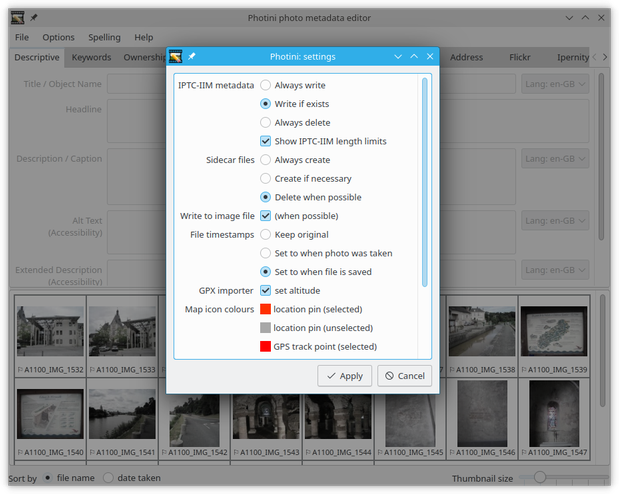
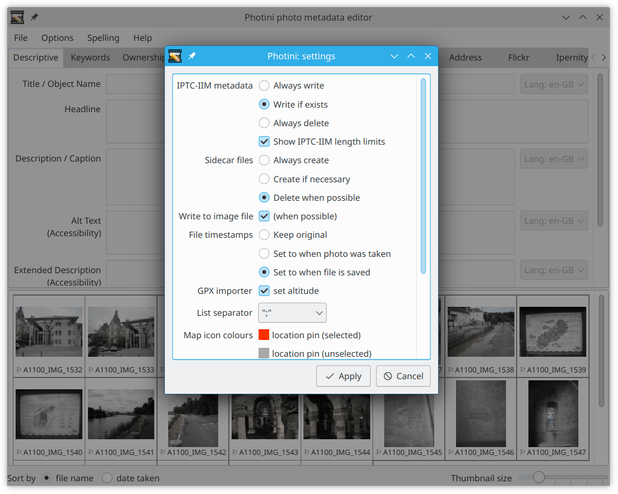
Add list item separator documentation

diff --git a/src/doc/manual/descriptive_metadata.rst b/src/doc/manual/descriptive_metadata.rst
@@ -72,6 +72,7 @@ These are a recent addition to the `IPTC standard`_ - in future image display pr
   The ``Keywords`` field has been moved to the :doc:`keywords` tab.
 
 The ``Person(s) shown`` box can be used to record the names of any people in the photograph.
+This is a list of values, see :ref:`descriptive-list-values` below.
 This also shows any people named in the :doc:`regions` tab.
 
 .. image:: ../images/screenshot_030.png
@@ -83,6 +84,27 @@ Good pictures can be given a one to five star rating.
 
 Bad pictures can be given a ``reject`` rating.
 This is stored in the metadata as a rating value of -1.
+
+.. _descriptive-list-values:
+
+List values
+-----------
+
+.. versionadded:: 2026.08
+  Before version 2026.08 the list item separator was a semicolon (``;``) and could not be changed.
+
+.. image:: ../images/screenshot_041.png
+
+Some metadata, such as keywords or the people in an image, is a list of values.
+When entering values they must be separated by a delimiter character.
+Photini's default separator is a semicolon (``;``), but this can be changed in the :doc:`configuration settings <configuration>`.
+If a value in the list contains the current separator character (e.g. "Fred Bloggs, Esq." contains a comma) then Photini will choose a different separator for the list.
+When typing in values you can enter the current separator with the ``Return`` or ``Enter`` key.
+
+.. image:: ../images/screenshot_042.png
+
+If you need to enter a value that contains the current separator then you can over-ride the default separator with the right-click context menu.
+The new separator only applies to one data field and remains in place until you restart Photini.
 
 .. _alternative-languages:
 

diff --git a/src/doc/manual/keywords.rst b/src/doc/manual/keywords.rst
@@ -20,7 +20,7 @@ Hierarchical keywords are a more recent addition to photography metadata and may
 .. image:: ../images/screenshot_051.png
 
 You can set a list of simple keywords for the image by typing them in the ``Keywords`` box.
-Keywords are separated by semicolon (``;``) characters.
+Keywords are separated by semicolon (``;``) characters, as described in :ref:`descriptive-list-values`.
 The ``<favourites>`` drop-down list can be used to select keywords from the ones you use most often.
 
 Hierarchical keywords are sequences of words or phrases that describe the subject in descending generality or increasing precision.

diff --git a/src/doc/manual/configuration.rst b/src/doc/manual/configuration.rst
@@ -44,6 +44,8 @@ You may need to scroll down to see all the settings available.
 
 If you have installed gpxpy_ then there is an option to determine if the altitude is included when a GPX file is used to set pictures' GPS data.
 
+The "list separator" is used as a delimiter for list values such as keywords or people shown in an image.
+
 .. image:: ../images/screenshot_083.png
 
 Clicking on one of the "map icon colours" fields opens a colour chooser dialog that allows you to click on a colour or type in its values in a variety of formats.
